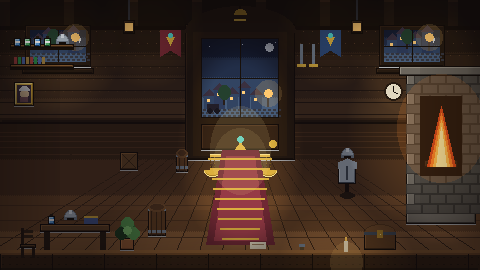
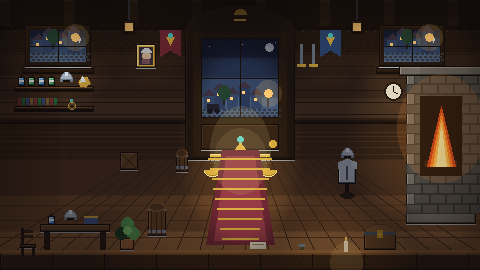
Menu: estanterias debajo de la ventana (sin solaparla) + retrato reubicado
- Las estanterias izquierdas pasan a estar DEBAJO de la ventana (ya no encima),
  bien surtidas: pociones, casco, mineral, libros y anillo.
- Retrato de la abuela movido a la zona de pared libre a la izquierda de la puerta.
- Se anaden helpers ore() y ring() al generador.

Claude-Session: https://claude.ai/code/session_01BvQJaW7W6TmoPXUchrmyos

Changed region(s): [[0.0312, 0.1185, 0.2188, 0.4148], [0.2812, 0.1481, 0.3438, 0.2667]]

diff --git a/tools/gen_menu.py b/tools/gen_menu.py
@@ -51,6 +51,10 @@ def potion(d,x,y,r):
 def helmet(d,x,y):
     d.pieslice([x,y,x+12,y+14],180,360,fill=METAL[1]); d.pieslice([x+1,y+1,x+11,y+13],180,360,fill=METAL[2])
     F(d,x,y+7,13,3,METAL[1]); F(d,x+3,y+8,7,2,K); F(d,x+5,y,3,4,METAL[3])
+def ore(d,x,y,c):
+    d.polygon([(x,y+8),(x+4,y+2),(x+9,y+3),(x+12,y+9),(x+7,y+13),(x+2,y+12)],fill=c); d.polygon([(x+4,y+2),(x+7,y+7),(x+2,y+8)],fill=METAL[3])
+def ring(d,x,y):
+    d.ellipse([x,y+3,x+7,y+10],outline=GOLD[2]); d.ellipse([x+1,y+4,x+6,y+9],outline=GOLD[1]); F(d,x+2,y,3,3,(79,208,200))
 def barrel(d,x,y,w,h):
     panel(d,x,y,w,h,[(56,36,20),(94,60,32),(128,84,46)])
     F(d,x,y+2,w,3,METAL[1]); F(d,x,y+h-6,w,3,METAL[1])
@@ -152,13 +156,15 @@ def scene():
     bx=dx+dw//2; F(d,bx-1,dy-26,2,6,DWOOD[0]); d.pieslice([bx-6,dy-23,bx+6,dy-12],180,360,fill=GOLD[1]); F(d,bx-6,dy-13,12,2,GOLD[2])
     for wx in (30,384):
         panel(d,wx-5,25,66,42,DWOOD); exterior(d,img,wx,30,56,32); d=ImageDraw.Draw(img); panel(d,wx-8,68,72,6,DWOOD,ao=False)
-    for sy in (44,64):
-        panel(d,10,sy,64,4,[(58,38,20),(92,60,30),(124,84,44)],ao=False); F(d,10,sy+4,64,2,DWOOD[0])
-    for i,px in enumerate((14,24,34,44)): potion(d,px,36,[BLUE,GRN][i%2])
-    helmet(d,56,34)
-    for i,bx2 in enumerate((14,18,22,26,30,34,38,42)): F(d,bx2,57,3,7,[REDB,(40,130,66),BLUEB,(150,120,60)][i%4])
-    portrait(d,14,82)          # retrato de la abuela (pared inferior izq, sin solapes)
-    clock(d,384,82)            # reloj parado (pared, junto a la chimenea, sin tocar la ventana)
+    # Estanterias DEBAJO de la ventana izquierda (sin solaparla), bien surtidas.
+    for sy in (86,106):
+        panel(d,14,sy,80,4,[(58,38,20),(92,60,30),(124,84,44)],ao=False); F(d,14,sy+4,80,2,DWOOD[0])
+    for i,px in enumerate((18,28,38,48)): potion(d,px,75,[BLUE,GRN][i%2])
+    helmet(d,60,72); ore(d,78,74,GOLD[2])
+    for i,bx2 in enumerate((18,22,26,30,34,38,42,46,50,54)): F(d,bx2,98,3,7,[REDB,(40,130,66),BLUEB,(150,120,60)][i%4])
+    ring(d,68,99)
+    portrait(d,136,44)         # retrato de la abuela (zona libre a la izq de la puerta)
+    clock(d,384,82)            # reloj parado (junto a la chimenea, sin tocar la ventana)
     for wx in (300,312): F(d,wx,44,3,22,METAL[1]); F(d,wx-3,64,9,3,GOLD[2])
     fx,fy,fw,fh=406,120,70,150
     panel(d,fx,fy-46,fw,fh,STONE)
